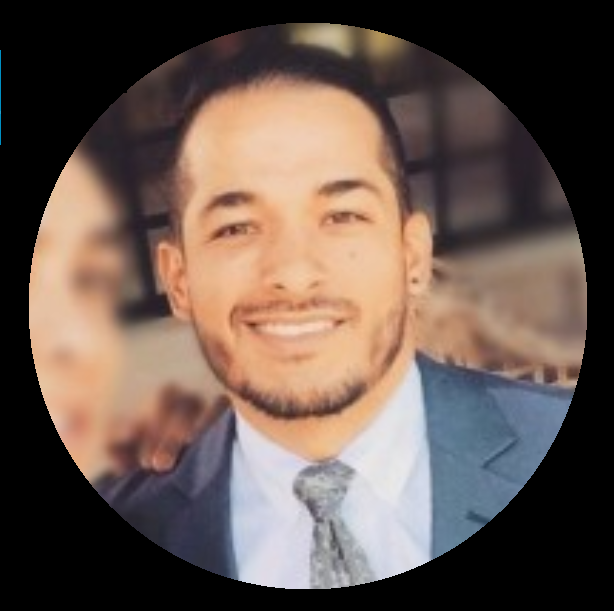
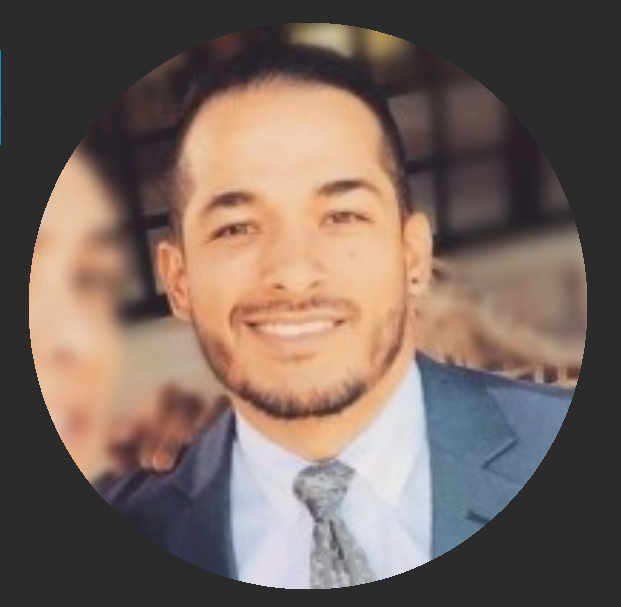
Added Picture, updated contact details

diff --git a/src/components/about/about.js b/src/components/about/about.js
@@ -7,7 +7,7 @@ function About(props) {
     <section id="about">
       <div className="row">
         <div className="three columns">
-          <img className="profile-pic" src="images/profile.png" alt="" />
+          <img className="" src="images/profilepic.png" alt="handsome dude" />
         </div>
 
         <div className="nine columns main-col">
@@ -20,8 +20,13 @@ function About(props) {
               <p className="address">
                 <span>{resumeData.name}</span>
                 <br></br>
-                <span>{resumeData.address}</span>
+                <span>{resumeData.email}</span>
                 <br></br>
+                {/* <span>{resumeData.address}</span>
+                <br></br> */}
+                <span>{resumeData.phone}</span>
+                <br></br>
+                
                 <span>{resumeData.website}</span>
               </p>
             </div>

diff --git a/src/resumeData.js b/src/resumeData.js
@@ -1,3 +1,5 @@
+// import { getMaxListeners } from "cluster"
+
 let resumeData = {
   // "imagebaseurl":"https://techonoeticsclub.github.io/",  MAKE FOR MYSELF
   //------------------------------------------------------------------------------ name
@@ -36,9 +38,11 @@ let resumeData = {
 
   //------------------------------------------------------------------------------ about me
   aboutme:
-    " a problem solver, with a knack for pleasing aesthetics and functionality.",
-  address: "Huntington Beach, CA",
+    " I'm a problem solver with a knack for pleasing aesthetics and functionality.",
+  email: "felipearcilaz@gmail.com",
+  phone: "(714)-341-5246", 
   website: "https://www.https://github.com/felipearcilaz.com",
+ 
   education: [
     {
       UniversityName: "Redwood Code Academy",

diff --git a/public/css/layout.css b/public/css/layout.css
@@ -211,6 +211,7 @@ ul#nav li.current a { color: #F06000; }
    line-height: 30px;
    color: #7A7A7A;
 }
+/*------------------------------------------------------ profile picture */
 #about .profile-pic {
    position: relative;
    width: 30rem;

diff --git a/public/css/media-queries.css b/public/css/media-queries.css
@@ -221,6 +221,7 @@
       text-align: center;
       padding: 15px 20px;
    }
+   
    #about .main-col { padding-right: 30px; }
 
 
